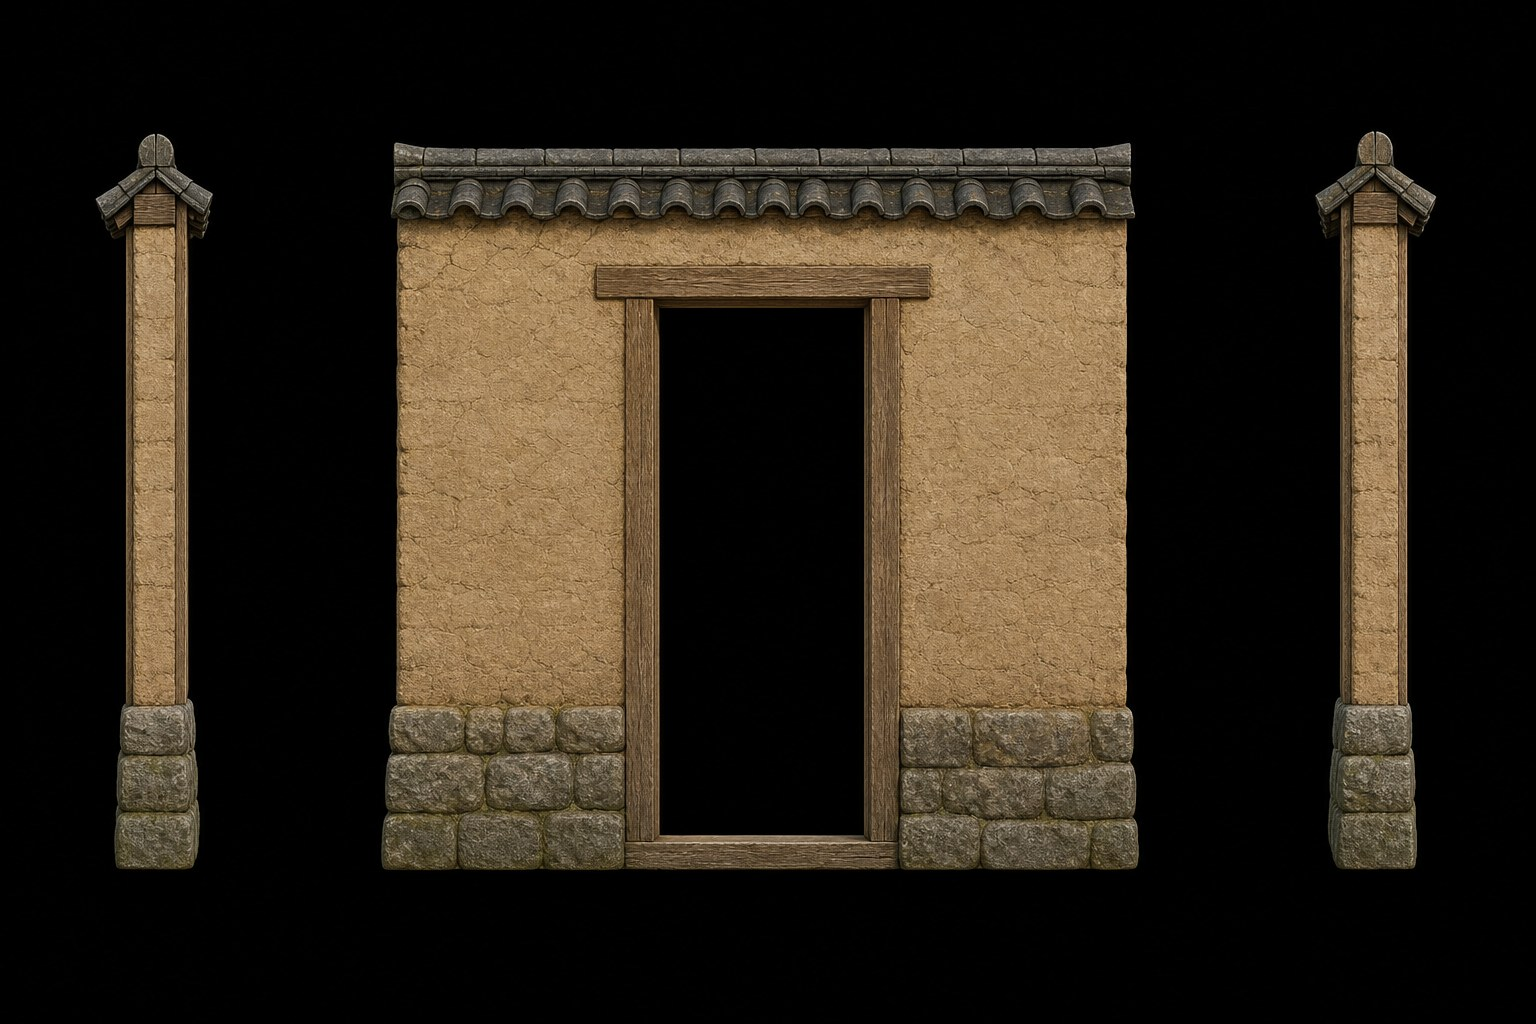
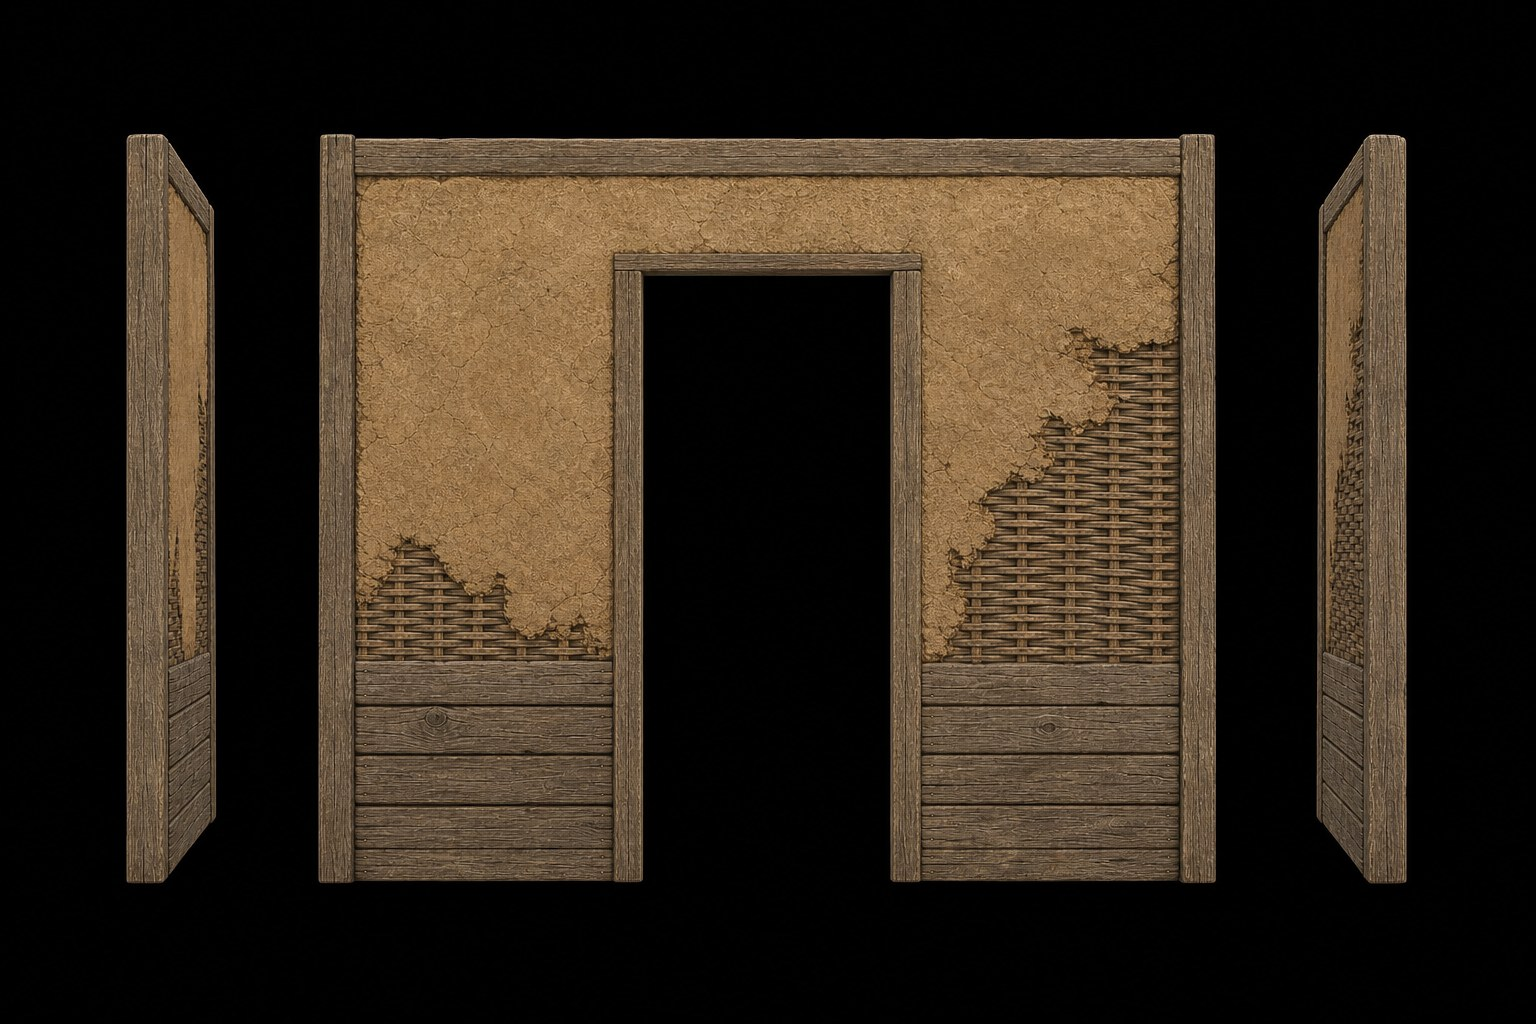
营地小试：门洞墙与窗洞墙按 wall_plain 重出，门洞改为生模后校正；旧两张移 _archive

diff --git a/STATUS.md b/STATUS.md
@@ -3,7 +3,7 @@ type: status
 status: active
 cluster: product
 stage: M1 进行中；排练完成，PIPELINE 1.0 草案已并入抖音水上村落的四条规矩；当前交付物是宋代营地一周小试（偏屋组件 + 篝火 + 地面）
-next: 用户点头重出门洞墙与窗洞墙两张（ASSET-SPEC 10.4）→ Rodin / Tripo A/B 一件 → 导入拼偏屋 → 夜晚光与截图打分（量 M1 画质门）
+next: 用户点头做生模 A/B（wall_door：Rodin 与 Tripo 各一次，约 0.7 美元）→ Rodin / Tripo A/B 一件 → 导入拼偏屋 → 夜晚光与截图打分（量 M1 画质门）
 blocked_by: 无（服务器新克隆的每 5 分钟 git pull 由用户照书架那条加）
 updated: 2026-11-04
 ---
@@ -70,6 +70,7 @@ updated: 2026-11-04
 
 ## 日志
 
+- 2026-11-04 门洞墙与窗洞墙用 wall_plain 作参考重出（0.75 元）：材质统一；门洞仍约 0.64 × 1.79 米，定为生模后 Blender 洞口校正；查到 fal 上 Tripo v2.5 多视图接口（front / left / right / back 四张图、texture 档、quad、pbr）
 - 2026-11-04 营地小试出图：gpt-image-2 中档 13 张（4.9 元）存 concepts/song_kit/；组件 8 件可用，门洞墙与窗洞墙被参考图带偏成夯土瓦顶院墙、门洞偏小，要换 wall_plain 作参考重出 2 张（约 0.75 元，等用户点头）；地面三张做成无缝平铺；记 ASSET-SPEC 10.4
 - 2026-11-04 用户给两条抖音（Astra 一夜做游戏、Tripo P2.0 + Opus 5.5 在 Godot 拼水上村落）：取视频抽帧看完，落 REFERENCES；结论是画质先靠光与地面层，资产走模块化套件 + 尺寸脚本 + 禁项提示词 + 人形实测，图集与"每件独立贴图"相冲待定
 - 2026-11-03 Baba：/opt/yanxilu-world 克隆 + /opt/yanxilu/world 链接完成，线上 /world 恢复（页面 / three.module.js / world.js / vis.json 均 200）；拆分全部收口

diff --git a/design/ASSET-SPEC.md b/design/ASSET-SPEC.md
@@ -252,3 +252,5 @@ Claude 的观察：没有屋顶的小屋从 40 度俯角能看见书墙、桌、
 教训：参考图会把同族组件拉向参考图里最像的那件（墙 → 院墙）。同族的第二件起，参考图换成本族已定的样板（wall_door / wall_window 用 wall_plain 做参考），并在提示词里写"no roof tiles, no stone base"。
 
 重出提示词（等用户点头，2 张约 0.75 元，参考图 `song_kit/wall_plain.jpg`）：前缀改为 `Exactly the same wall construction as the reference image: woven bamboo wattle plastered with ochre clay, horizontal weathered planks on the lower 60 cm, no roof tiles on top, no stone base.`，后接原第 3、4 条描述与公共提示词；门洞一条加 `The door opening is tall: 1.95 m of the 2.2 m wall height, and 0.9 m of the 2.0 m width.`
+
+重出结果（2026-11-04，2 张 0.75 元，本节合计 5.64 元）：两张都改对了材质，和 wall_plain 同一种墙（竹编抹泥 + 下段木板 + 两侧立框），无瓦顶无石基。量得：墙宽高比 1.03（要 0.91，导入按尺寸表非等比缩）；窗高 0.65、下沿 0.93 米，合格；**门洞仍偏小，约 0.64 × 1.79 米**（要 0.9 × 1.95）。图像模型给不准洞口尺寸，再抽一次也没把握 —— 技术决定：生模后在 Blender 里移门框内圈顶点把洞口拉到 0.9 × 1.95（导入流程加一步"洞口校正"），不再重出图。第一轮的两张院墙样式移到 `song_kit/_archive/`，以后做院墙时可作参考。
